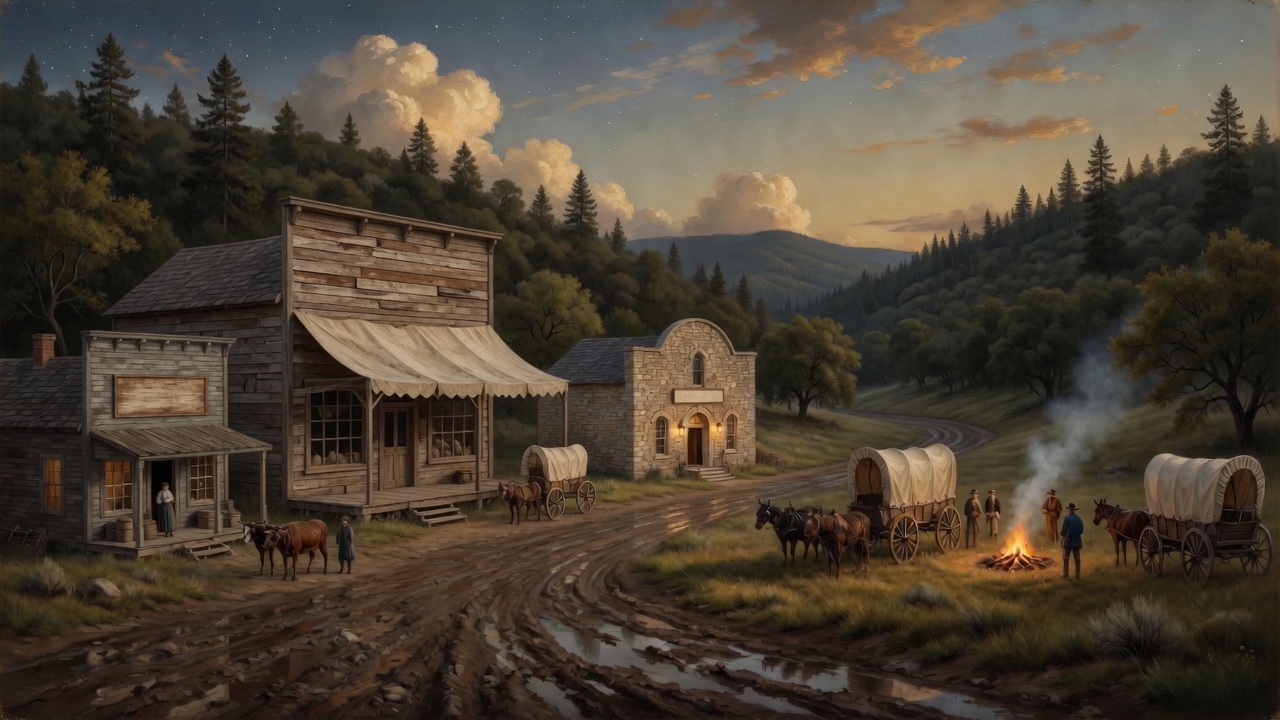
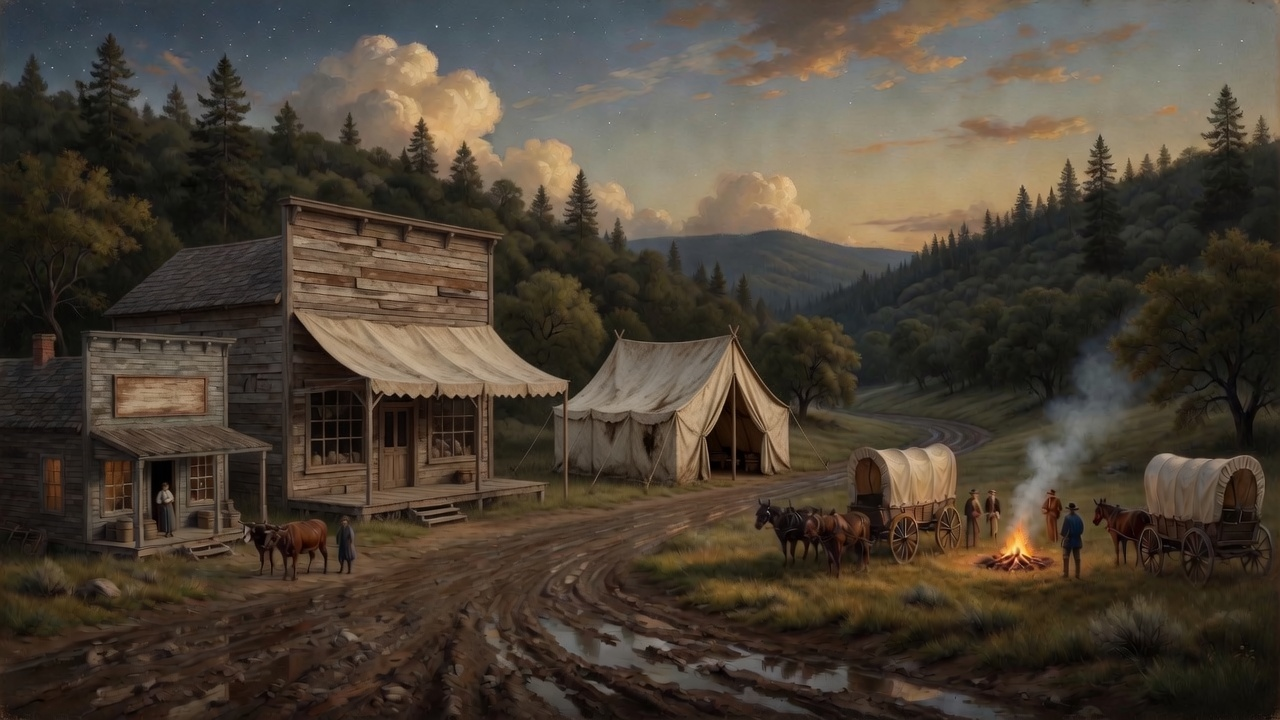
fix(explore): 1849 Volcano street drops the later limestone arch (#68)
The 1849 still already dropped the brick hotel. The center limestone
store (1855) is now a canvas tent. Pin click looks; it does not walk.

Changed region(s): [[0.375, 0.4278, 0.625, 0.7333]]

diff --git a/src/lib/goldCountryEditorial.ts b/src/lib/goldCountryEditorial.ts
@@ -4,8 +4,9 @@ const E = '/place-art/editorial'
 const V = '?v=20260820a'
 
 export const VOLCANO_MAIN_ART = `${E}/volcano_main.jpg${V}`
-/** 1849 explorer street: wood and canvas. Later brick hotel stays on volcano_main. */
-export const VOLCANO_1849_ART = `${E}/volcano_1849.jpg?v=20260908a`
+/** 1849 explorer street: wood and canvas. Later brick hotel stays on volcano_main.
+ *  1855 limestone arch is later; the 1849 still is tent and board. */
+export const VOLCANO_1849_ART = `${E}/volcano_1849.jpg?v=20260911a`
 
 /** Painted Gold Country relief — regional map background, not a town street. */
 export const GOLD_COUNTRY_MAP_ART = `${E}/gold_country_map.jpg${V}`
@@ -51,7 +52,7 @@ export function exploreMapPosition(
 }
 
 export const TOWN_EDITORIAL: Record<string, string> = {
-  volcano: `${E}/volcano_1849.jpg?v=20260908a`,
+  volcano: `${E}/volcano_1849.jpg?v=20260911a`,
   angels_camp: `${E}/angels_camp.jpg${V}`,
   angels_camp_expanded: `${E}/angels_camp_expanded.jpg${V}`,
   west_point: `${E}/west_point.jpg${V}`,
@@ -178,7 +179,7 @@ export const TOWN_HOTSPOTS: Record<string, TownHotspot[]> = {
     { attractionId: 'vol_cannon', x: 14, y: 58 },
     { attractionId: 'vol_observatory', x: 78, y: 28 },
     { attractionId: 'vol_cemetery', x: 88, y: 62 },
-    { attractionId: 'vol_canvas_flat', x: 68, y: 70 },
+    { attractionId: 'vol_canvas_flat', x: 52, y: 48 },
     { attractionId: 'vol_soldiers_gulch', x: 42, y: 82 },
   ],
   angels_camp: [

diff --git a/src/lib/exploreVolcanoEra.test.ts b/src/lib/exploreVolcanoEra.test.ts
@@ -49,5 +49,10 @@ ok(/id: 'vol_canvas_flat'/.test(src) && /id: 'vol_soldiers_gulch'/.test(src), '1
 ok(/Canvas and rope in 1849/.test(code), 'townStory is 1849 canvas, not brick capital')
 ok(!/housed the state's first lending library, astronomical observatory, and little theatre/.test(code), '1849 story does not claim later brick as present')
 
+const townFace = readFileSync(path.join(path.dirname(fileURLToPath(import.meta.url)), '../components/explore/InteractiveTown.tsx'), 'utf8')
+ok(/Looked at \$\{a\.name\}/.test(townFace), 'pin click looks; it does not enter a walkable room')
+ok(!/same as walking a town in the old RPGs/.test(townFace), 'empty-state does not claim an old-RPG walk')
+ok(/Click a building on the street to look closer/.test(townFace), 'empty-state speaks look')
+
 if (failed) { console.error(`${failed} failed, ${passed} passed`); process.exit(1) }
 console.log(JSON.stringify({ ok: true, passed, later_ids: VOLCANO_LATER_ATTRACTION_IDS.length }))

diff --git a/src/components/explore/InteractiveTown.tsx b/src/components/explore/InteractiveTown.tsx
@@ -59,7 +59,7 @@ export function InteractiveTown({
     visitTown(town.id)
     if (!isAttractionVisited(a.id)) {
       visitAttraction(a.id, town.id)
-      applyKarma('gold_country_explore', `Entered ${a.name} in ${town.name}`, -2, -1)
+      applyKarma('gold_country_explore', `Looked at ${a.name} in ${town.name}`, -2, -1)
     }
     setSelectedId(a.id)
     setNpcLine(null)
@@ -156,7 +156,7 @@ export function InteractiveTown({
           </article>
         ) : (
           <p className="font-serif text-sm text-[#b8a88a]">
-            Click a building on the street, or talk to someone standing in it — same as walking a town in the old RPGs.
+            Click a building on the street to look closer, or talk to someone standing in it.
             Secrets stay off the map until they unlock.
           </p>
         )}

diff --git a/src/lib/goldCountryEditorial.test.ts b/src/lib/goldCountryEditorial.test.ts
@@ -11,8 +11,8 @@ import {
 } from './goldCountryEditorial'
 import { getDefaultLocation } from '../app/adventure/data/chapterLocations'
 
-assert.equal(editorialForExplorePlace('volcano'), '/place-art/editorial/volcano_1849.jpg?v=20260908a')
-assert.equal(editorialForExplorePlace('vol_theatre'), '/place-art/editorial/volcano_1849.jpg?v=20260908a')
+assert.equal(editorialForExplorePlace('volcano'), '/place-art/editorial/volcano_1849.jpg?v=20260911a')
+assert.equal(editorialForExplorePlace('vol_theatre'), '/place-art/editorial/volcano_1849.jpg?v=20260911a')
 assert.equal(TOWN_EDITORIAL.volcano.includes('volcano_main'), false)
 assert.equal(TOWN_EDITORIAL.volcano.includes('volcano_1849'), true)
 assert.equal(editorialForExplorePlace('angels_camp'), '/place-art/editorial/angels_camp.jpg?v=20260820a')
